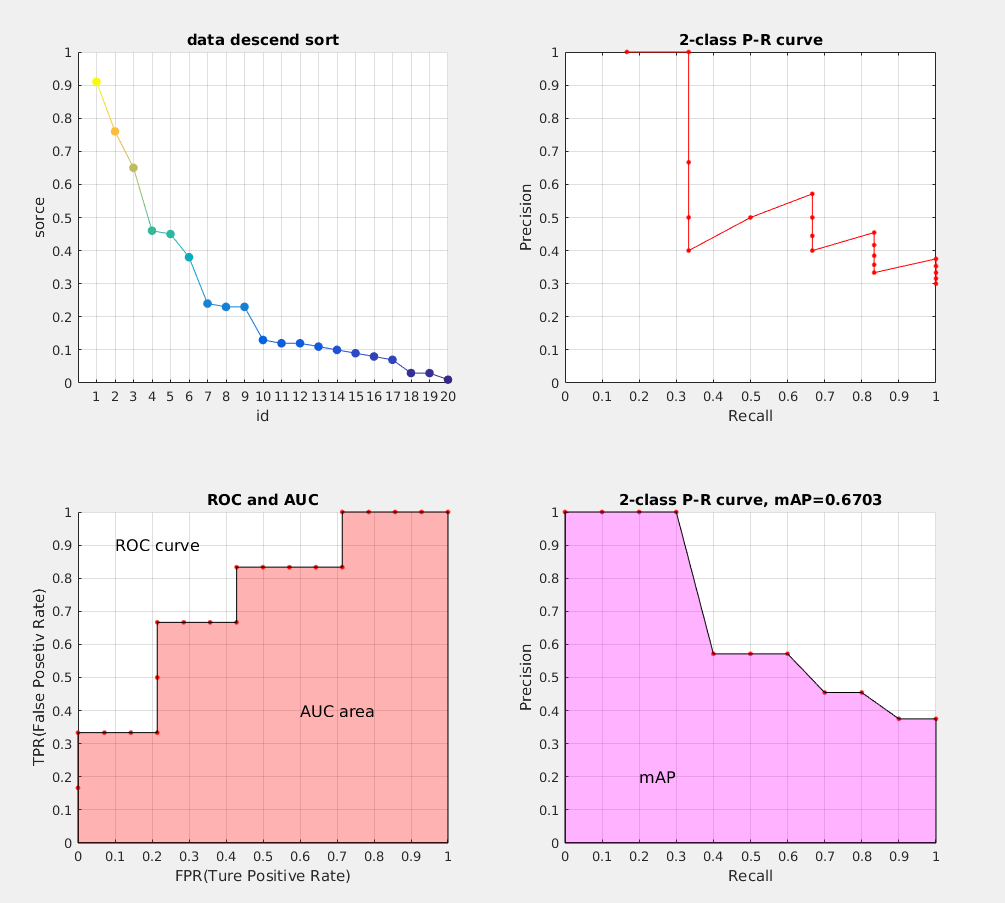
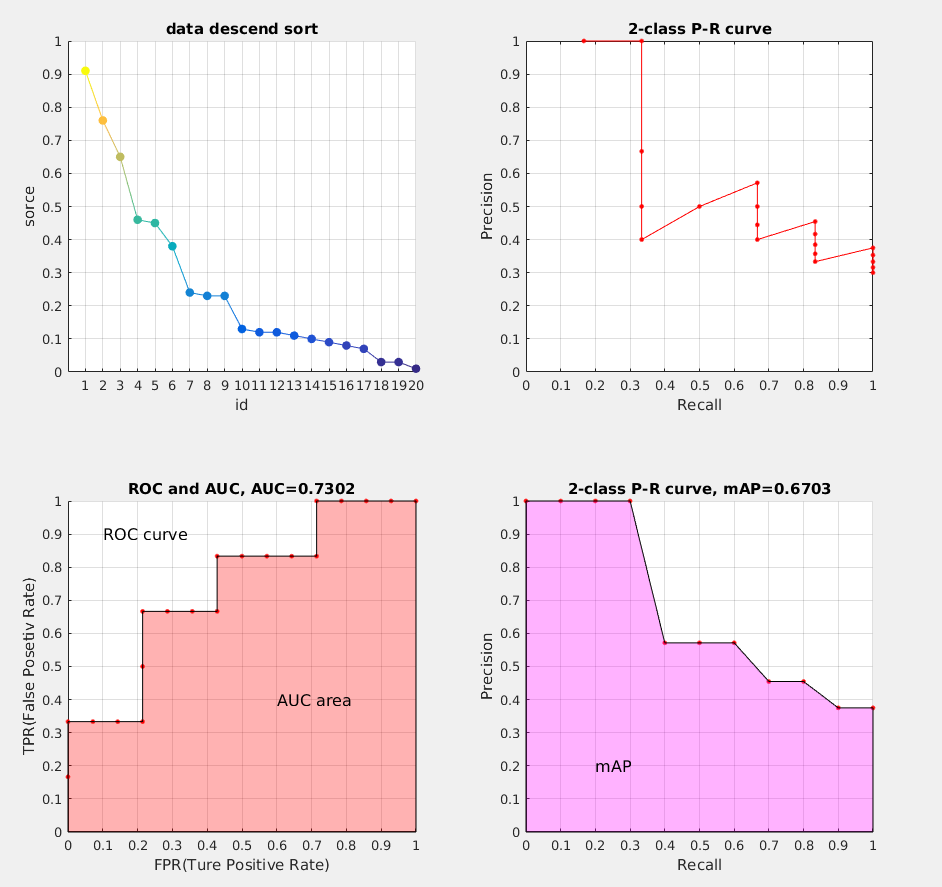
Site updated: 2019-03-27 20:15:01

diff --git a/2018/04/25/Precision、Recall、P-R曲线、ROC、AUC、mAP/index.html b/2018/04/25/Precision、Recall、P-R曲线、ROC、AUC、mAP/index.html
@@ -82,7 +82,7 @@
 <meta property="og:image" content="http://yoursite.com/2018/04/25/Precision、Recall、P-R曲线、ROC、AUC、mAP/5.png">
 <meta property="og:image" content="http://yoursite.com/2018/04/25/Precision、Recall、P-R曲线、ROC、AUC、mAP/mAP.png">
 <meta property="og:image" content="http://yoursite.com/2018/04/25/Precision、Recall、P-R曲线、ROC、AUC、mAP/result.png">
-<meta property="og:updated_time" content="2019-03-27T08:52:54.398Z">
+<meta property="og:updated_time" content="2019-03-27T11:37:06.598Z">
 <meta name="twitter:card" content="summary">
 <meta name="twitter:title" content="Precision、Recall、P-R曲线、ROC、AUC、mAP">
 <meta name="twitter:description" content="code{white-space: pre;}">
@@ -417,7 +417,7 @@
 </div>
 <p><strong>AP</strong> 衡量的是学出来的模型在每个类别上的好坏，<strong>mAP</strong> 衡量的是学出的模型在所有类别上的好坏，得到 AP 后 mAP 的计算就变得很简单了，就是取所有 AP 的平均值。</p>
 <h2 id="代码简单实现">5. 代码简单实现</h2>
-<figure class="highlight matlab"><table><tr><td class="gutter"><pre><span class="line">1</span><br><span class="line">2</span><br><span class="line">3</span><br><span class="line">4</span><br><span class="line">5</span><br><span class="line">6</span><br><span class="line">7</span><br><span class="line">8</span><br><span class="line">9</span><br><span class="line">10</span><br><span class="line">11</span><br><span class="line">12</span><br><span class="line">13</span><br><span class="line">14</span><br><span class="line">15</span><br><span class="line">16</span><br><span class="line">17</span><br><span class="line">18</span><br><span class="line">19</span><br><span class="line">20</span><br><span class="line">21</span><br><span class="line">22</span><br><span class="line">23</span><br><span class="line">24</span><br><span class="line">25</span><br><span class="line">26</span><br><span class="line">27</span><br><span class="line">28</span><br><span class="line">29</span><br><span class="line">30</span><br><span class="line">31</span><br><span class="line">32</span><br><span class="line">33</span><br><span class="line">34</span><br><span class="line">35</span><br><span class="line">36</span><br><span class="line">37</span><br><span class="line">38</span><br><span class="line">39</span><br><span class="line">40</span><br><span class="line">41</span><br><span class="line">42</span><br><span class="line">43</span><br><span class="line">44</span><br><span class="line">45</span><br><span class="line">46</span><br><span class="line">47</span><br><span class="line">48</span><br><span class="line">49</span><br><span class="line">50</span><br><span class="line">51</span><br><span class="line">52</span><br><span class="line">53</span><br><span class="line">54</span><br><span class="line">55</span><br><span class="line">56</span><br><span class="line">57</span><br><span class="line">58</span><br><span class="line">59</span><br><span class="line">60</span><br><span class="line">61</span><br><span class="line">62</span><br><span class="line">63</span><br><span class="line">64</span><br><span class="line">65</span><br><span class="line">66</span><br><span class="line">67</span><br><span class="line">68</span><br><span class="line">69</span><br><span class="line">70</span><br><span class="line">71</span><br><span class="line">72</span><br><span class="line">73</span><br><span class="line">74</span><br><span class="line">75</span><br><span class="line">76</span><br><span class="line">77</span><br><span class="line">78</span><br><span class="line">79</span><br><span class="line">80</span><br><span class="line">81</span><br><span class="line">82</span><br><span class="line">83</span><br><span class="line">84</span><br><span class="line">85</span><br><span class="line">86</span><br><span class="line">87</span><br><span class="line">88</span><br><span class="line">89</span><br><span class="line">90</span><br><span class="line">91</span><br><span class="line">92</span><br><span class="line">93</span><br><span class="line">94</span><br><span class="line">95</span><br><span class="line">96</span><br><span class="line">97</span><br><span class="line">98</span><br><span class="line">99</span><br><span class="line">100</span><br><span class="line">101</span><br><span class="line">102</span><br><span class="line">103</span><br></pre></td><td class="code"><pre><span class="line"><span class="comment">% Creation          :  26-Mar-2019 23:18</span></span><br><span class="line"><span class="comment">% Last Reversion    :  26-Mar-2019 23:35</span></span><br><span class="line"><span class="comment">% Author            :  Lingyong Smile &#123;smilelingyong@163.com&#125;</span></span><br><span class="line"><span class="comment">% File Type         :  Matlab</span></span><br><span class="line"><span class="comment">% -----------------------------------------------------------</span></span><br><span class="line"><span class="comment">% mAP_learning()</span></span><br><span class="line"><span class="comment">% This script is used to learning precesion, recall, RP curve, </span></span><br><span class="line"><span class="comment">% ROC and AUC curve, and mAP.</span></span><br><span class="line"><span class="comment">% ------------------------------------------------------------</span></span><br><span class="line"><span class="comment">% Copyright (c) 2018, Lingyong Smile</span></span><br><span class="line"></span><br><span class="line"><span class="comment">%% Initialization</span></span><br><span class="line">clc;</span><br><span class="line">clear;</span><br><span class="line">close all;</span><br><span class="line">dbstop <span class="keyword">if</span> error;</span><br><span class="line"></span><br><span class="line"><span class="comment">%% Load data</span></span><br><span class="line">data = ...</span><br><span class="line">[[<span class="number">1</span>:<span class="number">20</span>]', ...</span><br><span class="line">[<span class="number">0</span>;<span class="number">1</span>;<span class="number">0</span>;<span class="number">1</span>;<span class="number">0</span>;<span class="number">0</span>;<span class="number">1</span>;<span class="number">0</span>;<span class="number">1</span>;<span class="number">0</span>;<span class="number">0</span>;<span class="number">0</span>;<span class="number">0</span>;<span class="number">0</span>;<span class="number">0</span>;<span class="number">1</span>;<span class="number">0</span>;<span class="number">0</span>;<span class="number">0</span>;<span class="number">1</span>], ...</span><br><span class="line">[<span class="number">0.23</span>; <span class="number">0.76</span>; <span class="number">0.01</span>; <span class="number">0.91</span>; <span class="number">0.13</span>; <span class="number">0.45</span>; <span class="number">0.12</span>; <span class="number">0.03</span>; <span class="number">0.38</span>; <span class="number">0.11</span>; <span class="number">0.03</span>; <span class="number">0.09</span>; <span class="number">0.65</span>; <span class="number">0.07</span>; <span class="number">0.12</span>; <span class="number">0.24</span>; <span class="number">0.1</span>; <span class="number">0.23</span>; <span class="number">0.46</span>; <span class="number">0.08</span>]];</span><br><span class="line"></span><br><span class="line"><span class="comment">%% Plot sorted data</span></span><br><span class="line">[~, sort_idx] = <span class="built_in">sort</span>(data(:,<span class="number">3</span>), <span class="string">'descend'</span>);</span><br><span class="line">data = data(sort_idx, :);   <span class="comment">% descend sort data of confident</span></span><br><span class="line"><span class="built_in">figure</span>(<span class="number">1</span>);</span><br><span class="line">subplot(<span class="number">2</span>, <span class="number">2</span>, <span class="number">1</span>);</span><br><span class="line"><span class="built_in">hold</span> on;</span><br><span class="line"><span class="comment">% plot(data(:, 1), data(:, 3), '*r'); </span></span><br><span class="line">x = [<span class="number">1</span>:<span class="built_in">length</span>(data(:, <span class="number">1</span>))+<span class="number">1</span>];</span><br><span class="line">y = [data(:, <span class="number">3</span>); NaN];</span><br><span class="line">c = y;</span><br><span class="line">patch(x, y, c, <span class="string">'EdgeColor'</span>,<span class="string">'interp'</span>,<span class="string">'Marker'</span>,<span class="string">'o'</span>,<span class="string">'MarkerFaceColor'</span>,<span class="string">'flat'</span>); <span class="comment">% which is equals to the comment line</span></span><br><span class="line">title(<span class="string">'data descend sort'</span>);</span><br><span class="line">xlabel(<span class="string">'id'</span>);</span><br><span class="line">ylabel(<span class="string">'sorce'</span>);</span><br><span class="line">set(gca, <span class="string">'xtick'</span>, [<span class="number">1</span>:<span class="built_in">size</span>(data, <span class="number">1</span>)], <span class="string">'ytick'</span>, [<span class="number">0</span>:<span class="number">0.1</span>:<span class="number">1</span>]);  <span class="comment">% set grid properties</span></span><br><span class="line">grid on;</span><br><span class="line"></span><br><span class="line"><span class="comment">%% Calculate Precision and Recall, False positive rate and True positive rate</span></span><br><span class="line"><span class="keyword">for</span> <span class="built_in">i</span> = <span class="number">1</span>:<span class="built_in">size</span>(data, <span class="number">1</span>)</span><br><span class="line">    TP = sum(data(<span class="number">1</span>:<span class="built_in">i</span>, <span class="number">2</span>) == <span class="number">1</span>);</span><br><span class="line">    FP = sum(data(<span class="number">1</span>:<span class="built_in">i</span>, <span class="number">2</span>) == <span class="number">0</span>);</span><br><span class="line">    FN = sum(data(<span class="built_in">i</span>+<span class="number">1</span>:<span class="keyword">end</span>, <span class="number">2</span>) == <span class="number">1</span>);</span><br><span class="line">    TN = sum(data(<span class="built_in">i</span>+<span class="number">1</span>:<span class="keyword">end</span>, <span class="number">2</span>) == <span class="number">0</span>);</span><br><span class="line">    Precision(<span class="built_in">i</span>) = TP / (TP + FP);</span><br><span class="line">    Recall(<span class="built_in">i</span>) = TP / (TP + FN);</span><br><span class="line">    TPR(<span class="built_in">i</span>) = TP / (TP + FN);</span><br><span class="line">    FPR(<span class="built_in">i</span>) = FP / (FP + TN);</span><br><span class="line"><span class="keyword">end</span></span><br><span class="line"></span><br><span class="line"><span class="comment">%% Plot P-R curve</span></span><br><span class="line">subplot(<span class="number">2</span>, <span class="number">2</span>, <span class="number">2</span>);</span><br><span class="line"><span class="built_in">plot</span>(Recall, Precision, <span class="string">'-r'</span>);</span><br><span class="line"><span class="built_in">hold</span> on;</span><br><span class="line"><span class="built_in">plot</span>(Recall, Precision, <span class="string">'.r'</span>, <span class="string">'MarkerSize'</span>, <span class="number">10</span>, <span class="string">'MarkerEdgeColor'</span>, <span class="string">'r'</span>, <span class="string">'MarkerFaceColor'</span>, <span class="string">'r'</span>); <span class="comment">% plot point</span></span><br><span class="line">set(gca,<span class="string">'xtick'</span>,[<span class="number">0</span>:<span class="number">0.1</span>:<span class="number">1</span>], <span class="string">'ytick'</span>, [<span class="number">0</span>:<span class="number">0.1</span>:<span class="number">1</span>]); </span><br><span class="line">grid on;</span><br><span class="line">axis([<span class="number">0</span>, <span class="number">1</span>, <span class="number">0</span>, <span class="number">1</span>]);</span><br><span class="line">title(<span class="string">'2-class P-R curve'</span>);</span><br><span class="line">xlabel(<span class="string">'Recall'</span>);</span><br><span class="line">ylabel(<span class="string">'Precision'</span>);</span><br><span class="line"></span><br><span class="line"><span class="comment">%% Plot mAP</span></span><br><span class="line">ap = [];</span><br><span class="line">thresh = <span class="number">0</span>:<span class="number">0.1</span>:<span class="number">1</span>;</span><br><span class="line"><span class="keyword">for</span> t = thresh</span><br><span class="line">    p = <span class="built_in">max</span>(Precision(Recall &gt;= t));</span><br><span class="line">    <span class="keyword">if</span> <span class="built_in">isempty</span>(p)</span><br><span class="line">        p = <span class="number">0</span>;</span><br><span class="line">    <span class="keyword">end</span></span><br><span class="line">    ap(<span class="keyword">end</span>+<span class="number">1</span>) = p;</span><br><span class="line"><span class="keyword">end</span></span><br><span class="line">mAP = sum(ap) / <span class="number">11</span>;</span><br><span class="line">subplot(<span class="number">2</span>, <span class="number">2</span>, <span class="number">4</span>);</span><br><span class="line"><span class="built_in">hold</span> on;</span><br><span class="line"><span class="built_in">plot</span>(thresh, ap, <span class="string">'-r'</span>);</span><br><span class="line"><span class="built_in">plot</span>(thresh, ap, <span class="string">'.r'</span>, <span class="string">'MarkerSize'</span>, <span class="number">10</span>, <span class="string">'MarkerEdgeColor'</span>, <span class="string">'r'</span>, <span class="string">'MarkerFaceColor'</span>, <span class="string">'r'</span>); <span class="comment">% plot point</span></span><br><span class="line">patch(<span class="string">'Faces'</span>, <span class="number">1</span>:<span class="built_in">length</span>(thresh)+<span class="number">2</span>, <span class="string">'Vertices'</span>, [[<span class="number">0</span>, thresh, <span class="number">1</span>]', [<span class="number">0</span>, ap, <span class="number">0</span>]'], <span class="string">'FaceColor'</span>,<span class="string">'magenta'</span>,<span class="string">'FaceAlpha'</span>,<span class="number">.3</span>);</span><br><span class="line">text(<span class="number">0.2</span>, <span class="number">0.2</span>, <span class="string">'mAP'</span>, <span class="string">'FontSize'</span>, <span class="number">12</span>);  <span class="comment">% text the mAP</span></span><br><span class="line">set(gca,<span class="string">'xtick'</span>,[<span class="number">0</span>:<span class="number">0.1</span>:<span class="number">1</span>], <span class="string">'ytick'</span>, [<span class="number">0</span>:<span class="number">0.1</span>:<span class="number">1</span>]); </span><br><span class="line">grid on;</span><br><span class="line">axis([<span class="number">0</span>, <span class="number">1</span>, <span class="number">0</span>, <span class="number">1</span>]);</span><br><span class="line">title(sprintf(<span class="string">'2-class P-R curve, mAP=%.4f'</span>, mAP));</span><br><span class="line">xlabel(<span class="string">'Recall'</span>);</span><br><span class="line">ylabel(<span class="string">'Precision'</span>);</span><br><span class="line"></span><br><span class="line"><span class="comment">%% Plot ROC and AUC</span></span><br><span class="line">subplot(<span class="number">2</span>, <span class="number">2</span>, <span class="number">3</span>);</span><br><span class="line"><span class="built_in">hold</span> on;</span><br><span class="line"><span class="built_in">plot</span>(FPR, TPR, <span class="string">'-.b'</span>);</span><br><span class="line"><span class="built_in">plot</span>(FPR, TPR, <span class="string">'.r'</span>, <span class="string">'MarkerSize'</span>, <span class="number">10</span>, <span class="string">'MarkerEdgeColor'</span>, <span class="string">'r'</span>, <span class="string">'MarkerFaceColor'</span>, <span class="string">'r'</span>); <span class="comment">% plot point</span></span><br><span class="line"><span class="comment">% patch([0, FPR, 1], [0, TPR, 0], 'r'); % which is simple fill red color </span></span><br><span class="line">patch(<span class="string">'Faces'</span>, <span class="number">1</span>:<span class="built_in">length</span>(FPR)+<span class="number">2</span>, <span class="string">'Vertices'</span>, [[<span class="number">0</span>, FPR, <span class="number">1</span>]', [<span class="number">0</span>, TPR, <span class="number">0</span>]'], <span class="string">'FaceColor'</span>,<span class="string">'red'</span>,<span class="string">'FaceAlpha'</span>,<span class="number">.3</span>);</span><br><span class="line">text(<span class="number">0.1</span>, <span class="number">0.9</span>, <span class="string">'ROC curve'</span>, <span class="string">'FontSize'</span>, <span class="number">12</span>);  <span class="comment">% text the ROC</span></span><br><span class="line">text(<span class="number">0.6</span>, <span class="number">0.4</span>, <span class="string">'AUC area'</span>, <span class="string">'FontSize'</span>, <span class="number">12</span>);  <span class="comment">% text the AUC</span></span><br><span class="line">set(gca,<span class="string">'xtick'</span>,[<span class="number">0</span>:<span class="number">0.1</span>:<span class="number">1</span>], <span class="string">'ytick'</span>, [<span class="number">0</span>:<span class="number">0.1</span>:<span class="number">1</span>]); </span><br><span class="line">grid on;</span><br><span class="line">axis([<span class="number">0</span>, <span class="number">1</span>, <span class="number">0</span>, <span class="number">1</span>]);</span><br><span class="line">title(<span class="string">'ROC and AUC'</span>);</span><br><span class="line">xlabel(<span class="string">'FPR(Ture Positive Rate)'</span>);</span><br><span class="line">ylabel(<span class="string">'TPR(False Posetiv Rate)'</span>);</span><br></pre></td></tr></table></figure>
+<figure class="highlight matlab"><table><tr><td class="gutter"><pre><span class="line">1</span><br><span class="line">2</span><br><span class="line">3</span><br><span class="line">4</span><br><span class="line">5</span><br><span class="line">6</span><br><span class="line">7</span><br><span class="line">8</span><br><span class="line">9</span><br><span class="line">10</span><br><span class="line">11</span><br><span class="line">12</span><br><span class="line">13</span><br><span class="line">14</span><br><span class="line">15</span><br><span class="line">16</span><br><span class="line">17</span><br><span class="line">18</span><br><span class="line">19</span><br><span class="line">20</span><br><span class="line">21</span><br><span class="line">22</span><br><span class="line">23</span><br><span class="line">24</span><br><span class="line">25</span><br><span class="line">26</span><br><span class="line">27</span><br><span class="line">28</span><br><span class="line">29</span><br><span class="line">30</span><br><span class="line">31</span><br><span class="line">32</span><br><span class="line">33</span><br><span class="line">34</span><br><span class="line">35</span><br><span class="line">36</span><br><span class="line">37</span><br><span class="line">38</span><br><span class="line">39</span><br><span class="line">40</span><br><span class="line">41</span><br><span class="line">42</span><br><span class="line">43</span><br><span class="line">44</span><br><span class="line">45</span><br><span class="line">46</span><br><span class="line">47</span><br><span class="line">48</span><br><span class="line">49</span><br><span class="line">50</span><br><span class="line">51</span><br><span class="line">52</span><br><span class="line">53</span><br><span class="line">54</span><br><span class="line">55</span><br><span class="line">56</span><br><span class="line">57</span><br><span class="line">58</span><br><span class="line">59</span><br><span class="line">60</span><br><span class="line">61</span><br><span class="line">62</span><br><span class="line">63</span><br><span class="line">64</span><br><span class="line">65</span><br><span class="line">66</span><br><span class="line">67</span><br><span class="line">68</span><br><span class="line">69</span><br><span class="line">70</span><br><span class="line">71</span><br><span class="line">72</span><br><span class="line">73</span><br><span class="line">74</span><br><span class="line">75</span><br><span class="line">76</span><br><span class="line">77</span><br><span class="line">78</span><br><span class="line">79</span><br><span class="line">80</span><br><span class="line">81</span><br><span class="line">82</span><br><span class="line">83</span><br><span class="line">84</span><br><span class="line">85</span><br><span class="line">86</span><br><span class="line">87</span><br><span class="line">88</span><br><span class="line">89</span><br><span class="line">90</span><br><span class="line">91</span><br><span class="line">92</span><br><span class="line">93</span><br><span class="line">94</span><br><span class="line">95</span><br><span class="line">96</span><br><span class="line">97</span><br><span class="line">98</span><br><span class="line">99</span><br><span class="line">100</span><br><span class="line">101</span><br><span class="line">102</span><br><span class="line">103</span><br><span class="line">104</span><br><span class="line">105</span><br><span class="line">106</span><br><span class="line">107</span><br><span class="line">108</span><br><span class="line">109</span><br><span class="line">110</span><br><span class="line">111</span><br><span class="line">112</span><br><span class="line">113</span><br><span class="line">114</span><br><span class="line">115</span><br></pre></td><td class="code"><pre><span class="line"><span class="comment">% Creation          :  26-Mar-2019 23:18</span></span><br><span class="line"><span class="comment">% Last Reversion    :  26-Mar-2019 23:27</span></span><br><span class="line"><span class="comment">% Author            :  Lingyong Smile &#123;smilelingyong@163.com&#125;</span></span><br><span class="line"><span class="comment">% File Type         :  Matlab</span></span><br><span class="line"><span class="comment">% -----------------------------------------------------------</span></span><br><span class="line"><span class="comment">% mAP_learning()</span></span><br><span class="line"><span class="comment">% This script is used to learning precesion, recall, RP curve, </span></span><br><span class="line"><span class="comment">% ROC and AUC curve, and mAP.</span></span><br><span class="line"><span class="comment">% ------------------------------------------------------------</span></span><br><span class="line"><span class="comment">% Copyright (c) 2018, Lingyong Smile</span></span><br><span class="line"></span><br><span class="line"><span class="comment">%% Initialization</span></span><br><span class="line">clc;</span><br><span class="line">clear;</span><br><span class="line">close all;</span><br><span class="line">dbstop <span class="keyword">if</span> error;</span><br><span class="line"></span><br><span class="line"><span class="comment">%% Load data</span></span><br><span class="line">data = ...</span><br><span class="line">[[<span class="number">1</span>:<span class="number">20</span>]', ...</span><br><span class="line">[<span class="number">0</span>;<span class="number">1</span>;<span class="number">0</span>;<span class="number">1</span>;<span class="number">0</span>;<span class="number">0</span>;<span class="number">1</span>;<span class="number">0</span>;<span class="number">1</span>;<span class="number">0</span>;<span class="number">0</span>;<span class="number">0</span>;<span class="number">0</span>;<span class="number">0</span>;<span class="number">0</span>;<span class="number">1</span>;<span class="number">0</span>;<span class="number">0</span>;<span class="number">0</span>;<span class="number">1</span>], ...</span><br><span class="line">[<span class="number">0.23</span>; <span class="number">0.76</span>; <span class="number">0.01</span>; <span class="number">0.91</span>; <span class="number">0.13</span>; <span class="number">0.45</span>; <span class="number">0.12</span>; <span class="number">0.03</span>; <span class="number">0.38</span>; <span class="number">0.11</span>; <span class="number">0.03</span>; <span class="number">0.09</span>; <span class="number">0.65</span>; <span class="number">0.07</span>; <span class="number">0.12</span>; <span class="number">0.24</span>; <span class="number">0.1</span>; <span class="number">0.23</span>; <span class="number">0.46</span>; <span class="number">0.08</span>]];</span><br><span class="line"></span><br><span class="line"><span class="comment">%% Plot sorted data</span></span><br><span class="line">[~, sort_idx] = <span class="built_in">sort</span>(data(:,<span class="number">3</span>), <span class="string">'descend'</span>);</span><br><span class="line">data = data(sort_idx, :);   <span class="comment">% descend sort data of confident</span></span><br><span class="line"><span class="built_in">figure</span>(<span class="number">1</span>);</span><br><span class="line">subplot(<span class="number">2</span>, <span class="number">2</span>, <span class="number">1</span>);</span><br><span class="line"><span class="built_in">hold</span> on;</span><br><span class="line"><span class="comment">% plot(data(:, 1), data(:, 3), '*r'); </span></span><br><span class="line">x = [<span class="number">1</span>:<span class="built_in">length</span>(data(:, <span class="number">1</span>))+<span class="number">1</span>];</span><br><span class="line">y = [data(:, <span class="number">3</span>); NaN];</span><br><span class="line">c = y;</span><br><span class="line">patch(x, y, c, <span class="string">'EdgeColor'</span>,<span class="string">'interp'</span>,<span class="string">'Marker'</span>,<span class="string">'o'</span>,<span class="string">'MarkerFaceColor'</span>,<span class="string">'flat'</span>); <span class="comment">% which is equals to the comment line</span></span><br><span class="line">title(<span class="string">'data descend sort'</span>);</span><br><span class="line">xlabel(<span class="string">'id'</span>);</span><br><span class="line">ylabel(<span class="string">'sorce'</span>);</span><br><span class="line">set(gca, <span class="string">'xtick'</span>, [<span class="number">1</span>:<span class="built_in">size</span>(data, <span class="number">1</span>)], <span class="string">'ytick'</span>, [<span class="number">0</span>:<span class="number">0.1</span>:<span class="number">1</span>]);  <span class="comment">% set grid properties</span></span><br><span class="line">grid on;</span><br><span class="line"></span><br><span class="line"><span class="comment">%% Calculate Precision and Recall, False positive rate and True positive rate</span></span><br><span class="line"><span class="keyword">for</span> <span class="built_in">i</span> = <span class="number">1</span>:<span class="built_in">size</span>(data, <span class="number">1</span>)</span><br><span class="line">    TP = sum(data(<span class="number">1</span>:<span class="built_in">i</span>, <span class="number">2</span>) == <span class="number">1</span>);</span><br><span class="line">    FP = sum(data(<span class="number">1</span>:<span class="built_in">i</span>, <span class="number">2</span>) == <span class="number">0</span>);</span><br><span class="line">    FN = sum(data(<span class="built_in">i</span>+<span class="number">1</span>:<span class="keyword">end</span>, <span class="number">2</span>) == <span class="number">1</span>);</span><br><span class="line">    TN = sum(data(<span class="built_in">i</span>+<span class="number">1</span>:<span class="keyword">end</span>, <span class="number">2</span>) == <span class="number">0</span>);</span><br><span class="line">    Precision(<span class="built_in">i</span>) = TP / (TP + FP);</span><br><span class="line">    Recall(<span class="built_in">i</span>) = TP / (TP + FN);</span><br><span class="line">    TPR(<span class="built_in">i</span>) = TP / (TP + FN);</span><br><span class="line">    FPR(<span class="built_in">i</span>) = FP / (FP + TN);</span><br><span class="line"><span class="keyword">end</span></span><br><span class="line"></span><br><span class="line"><span class="comment">%% Plot P-R curve</span></span><br><span class="line">subplot(<span class="number">2</span>, <span class="number">2</span>, <span class="number">2</span>);</span><br><span class="line"><span class="built_in">plot</span>(Recall, Precision, <span class="string">'-r'</span>);</span><br><span class="line"><span class="built_in">hold</span> on;</span><br><span class="line"><span class="built_in">plot</span>(Recall, Precision, <span class="string">'.r'</span>, <span class="string">'MarkerSize'</span>, <span class="number">10</span>, <span class="string">'MarkerEdgeColor'</span>, <span class="string">'r'</span>, <span class="string">'MarkerFaceColor'</span>, <span class="string">'r'</span>); <span class="comment">% plot point</span></span><br><span class="line">set(gca,<span class="string">'xtick'</span>,[<span class="number">0</span>:<span class="number">0.1</span>:<span class="number">1</span>], <span class="string">'ytick'</span>, [<span class="number">0</span>:<span class="number">0.1</span>:<span class="number">1</span>]); </span><br><span class="line">grid on;</span><br><span class="line">axis([<span class="number">0</span>, <span class="number">1</span>, <span class="number">0</span>, <span class="number">1</span>]);</span><br><span class="line">title(<span class="string">'2-class P-R curve'</span>);</span><br><span class="line">xlabel(<span class="string">'Recall'</span>);</span><br><span class="line">ylabel(<span class="string">'Precision'</span>);</span><br><span class="line"></span><br><span class="line"><span class="comment">%% Plot mAP</span></span><br><span class="line">ap = [];</span><br><span class="line">thresh = <span class="number">0</span>:<span class="number">0.1</span>:<span class="number">1</span>;</span><br><span class="line"><span class="keyword">for</span> t = thresh</span><br><span class="line">    p = <span class="built_in">max</span>(Precision(Recall &gt;= t));</span><br><span class="line">    <span class="keyword">if</span> <span class="built_in">isempty</span>(p)</span><br><span class="line">        p = <span class="number">0</span>;</span><br><span class="line">    <span class="keyword">end</span></span><br><span class="line">    ap(<span class="keyword">end</span>+<span class="number">1</span>) = p;</span><br><span class="line"><span class="keyword">end</span></span><br><span class="line">mAP = sum(ap) / <span class="number">11</span>;</span><br><span class="line"></span><br><span class="line">subplot(<span class="number">2</span>, <span class="number">2</span>, <span class="number">4</span>);</span><br><span class="line"><span class="built_in">hold</span> on;</span><br><span class="line"><span class="built_in">plot</span>(thresh, ap, <span class="string">'-r'</span>);</span><br><span class="line"><span class="built_in">plot</span>(thresh, ap, <span class="string">'.r'</span>, <span class="string">'MarkerSize'</span>, <span class="number">10</span>, <span class="string">'MarkerEdgeColor'</span>, <span class="string">'r'</span>, <span class="string">'MarkerFaceColor'</span>, <span class="string">'r'</span>); <span class="comment">% plot point</span></span><br><span class="line">patch(<span class="string">'Faces'</span>, <span class="number">1</span>:<span class="built_in">length</span>(thresh)+<span class="number">2</span>, <span class="string">'Vertices'</span>, [[<span class="number">0</span>, thresh, <span class="number">1</span>]', [<span class="number">0</span>, ap, <span class="number">0</span>]'], <span class="string">'FaceColor'</span>,<span class="string">'magenta'</span>,<span class="string">'FaceAlpha'</span>,<span class="number">.3</span>);</span><br><span class="line">text(<span class="number">0.2</span>, <span class="number">0.2</span>, <span class="string">'mAP'</span>, <span class="string">'FontSize'</span>, <span class="number">12</span>);  <span class="comment">% text the mAP</span></span><br><span class="line">set(gca,<span class="string">'xtick'</span>,[<span class="number">0</span>:<span class="number">0.1</span>:<span class="number">1</span>], <span class="string">'ytick'</span>, [<span class="number">0</span>:<span class="number">0.1</span>:<span class="number">1</span>]); </span><br><span class="line">grid on;</span><br><span class="line">axis([<span class="number">0</span>, <span class="number">1</span>, <span class="number">0</span>, <span class="number">1</span>]);</span><br><span class="line">title(sprintf(<span class="string">'2-class P-R curve, mAP=%.4f'</span>, mAP));</span><br><span class="line">xlabel(<span class="string">'Recall'</span>);</span><br><span class="line">ylabel(<span class="string">'Precision'</span>);</span><br><span class="line"></span><br><span class="line"><span class="comment">%% Plot ROC and AUC</span></span><br><span class="line">ap = [];</span><br><span class="line">thresh = [<span class="number">0</span>:<span class="number">1</span>/<span class="built_in">length</span>(FPR):<span class="number">1</span>];</span><br><span class="line"><span class="keyword">for</span> t = thresh</span><br><span class="line">    p = <span class="built_in">max</span>(TPR(FPR &lt;= t));</span><br><span class="line">    <span class="keyword">if</span> <span class="built_in">isempty</span>(p)</span><br><span class="line">        p = <span class="number">0</span>;</span><br><span class="line">    <span class="keyword">end</span></span><br><span class="line">    ap(<span class="keyword">end</span>+<span class="number">1</span>) = p;</span><br><span class="line"><span class="keyword">end</span></span><br><span class="line">AUC = sum(ap) / <span class="built_in">length</span>(thresh);</span><br><span class="line"></span><br><span class="line">subplot(<span class="number">2</span>, <span class="number">2</span>, <span class="number">3</span>);</span><br><span class="line"><span class="built_in">hold</span> on;</span><br><span class="line"><span class="built_in">plot</span>(FPR, TPR, <span class="string">'-.b'</span>);</span><br><span class="line"><span class="built_in">plot</span>(FPR, TPR, <span class="string">'.r'</span>, <span class="string">'MarkerSize'</span>, <span class="number">10</span>, <span class="string">'MarkerEdgeColor'</span>, <span class="string">'r'</span>, <span class="string">'MarkerFaceColor'</span>, <span class="string">'r'</span>); <span class="comment">% plot point</span></span><br><span class="line"><span class="comment">% patch([0, FPR, 1], [0, TPR, 0], 'r'); % which is simple fill red color </span></span><br><span class="line">patch(<span class="string">'Faces'</span>, <span class="number">1</span>:<span class="built_in">length</span>(FPR)+<span class="number">2</span>, <span class="string">'Vertices'</span>, [[<span class="number">0</span>, FPR, <span class="number">1</span>]', [<span class="number">0</span>, TPR, <span class="number">0</span>]'], <span class="string">'FaceColor'</span>,<span class="string">'red'</span>,<span class="string">'FaceAlpha'</span>,<span class="number">.3</span>);</span><br><span class="line">text(<span class="number">0.1</span>, <span class="number">0.9</span>, <span class="string">'ROC curve'</span>, <span class="string">'FontSize'</span>, <span class="number">12</span>);  <span class="comment">% text the ROC</span></span><br><span class="line">text(<span class="number">0.6</span>, <span class="number">0.4</span>, <span class="string">'AUC area'</span>, <span class="string">'FontSize'</span>, <span class="number">12</span>);  <span class="comment">% text the AUC</span></span><br><span class="line">set(gca,<span class="string">'xtick'</span>,[<span class="number">0</span>:<span class="number">0.1</span>:<span class="number">1</span>], <span class="string">'ytick'</span>, [<span class="number">0</span>:<span class="number">0.1</span>:<span class="number">1</span>]); </span><br><span class="line">grid on;</span><br><span class="line">axis([<span class="number">0</span>, <span class="number">1</span>, <span class="number">0</span>, <span class="number">1</span>]);</span><br><span class="line">title(sprintf(<span class="string">'ROC and AUC, AUC=%.4f'</span>, AUC));</span><br><span class="line">xlabel(<span class="string">'FPR(Ture Positive Rate)'</span>);</span><br><span class="line">ylabel(<span class="string">'TPR(False Posetiv Rate)'</span>);</span><br></pre></td></tr></table></figure>
 <p>结果图：</p>
 <div class="figure">
 <img src="/2018/04/25/Precision、Recall、P-R曲线、ROC、AUC、mAP/result.png">
